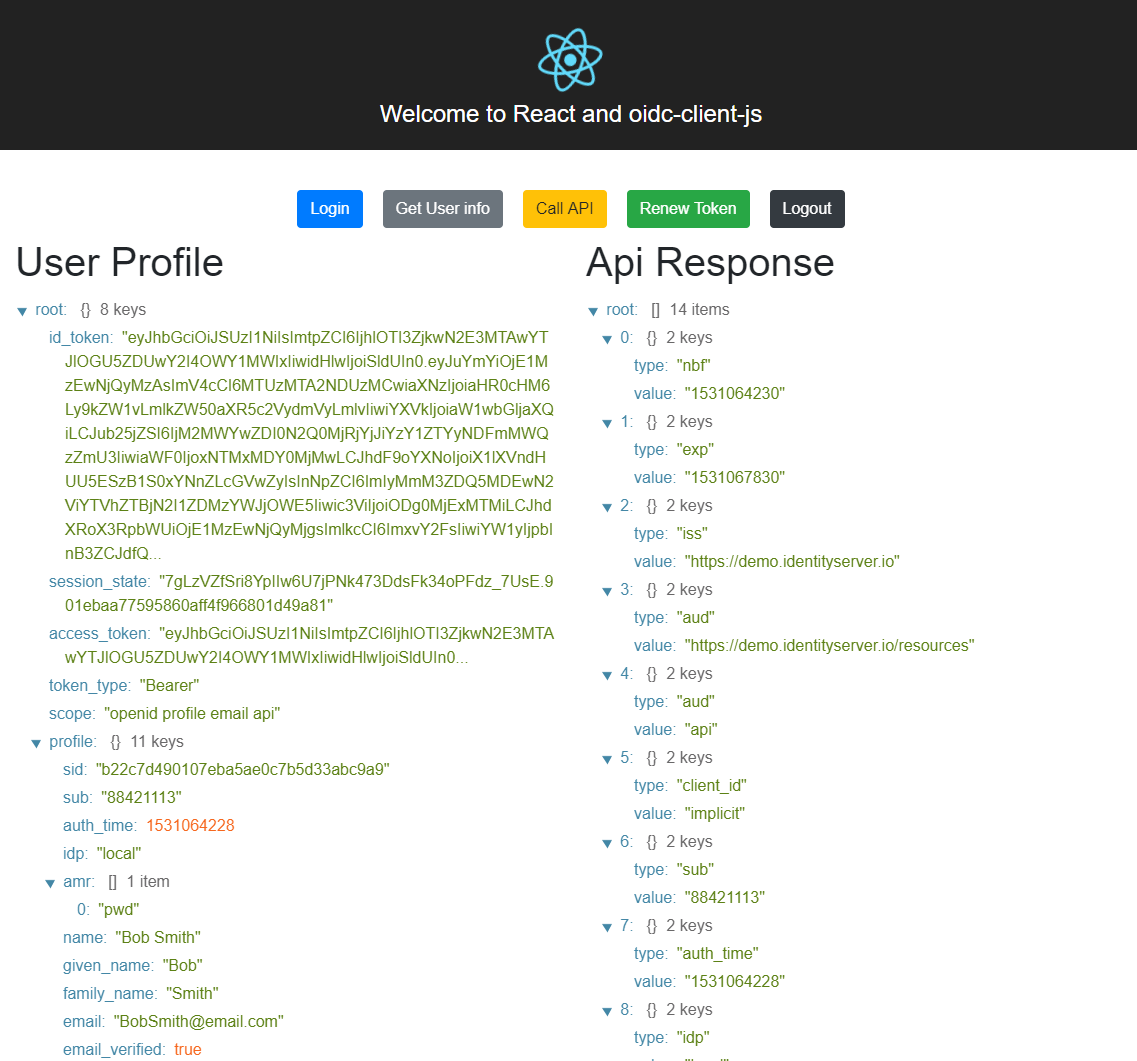
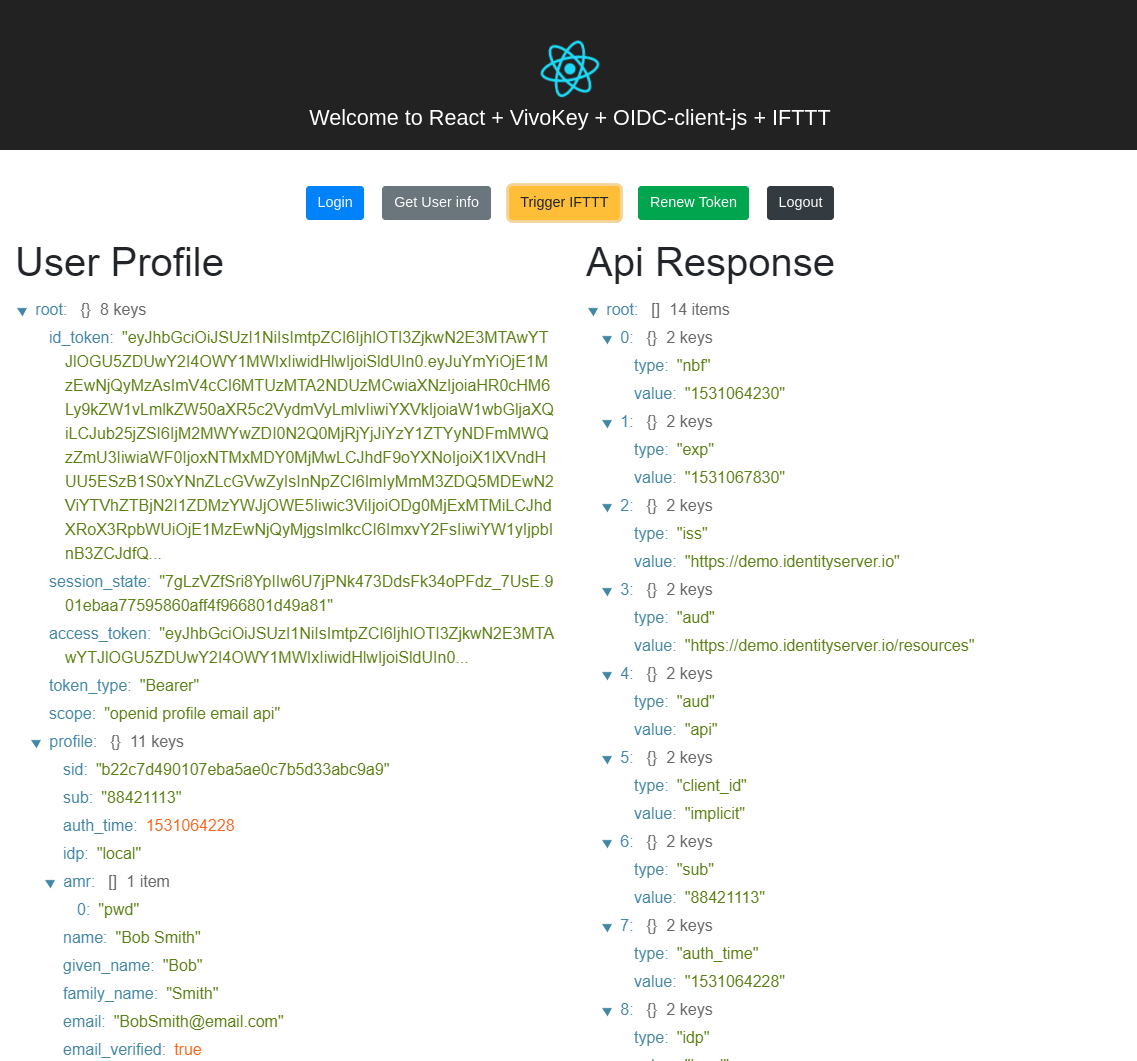
screenshot

Changed region(s): [[0.2463, 0.1555, 0.7696, 0.2177], [0.277, 0.0311, 0.708, 0.1244]]

diff --git a/src/components/Buttons.tsx b/src/components/Buttons.tsx
@@ -19,7 +19,7 @@ const Buttons: React.SFC<IButtonsProps> = props => {
           Get User info
         </button>
         <button className="btn btn-warning btn-getapi" style={{ margin: '10px' }} onClick={props.callApi}>
-          IFTTT
+          Trigger IFTTT
         </button>
         <button className="btn btn-success btn-renewtoken" style={{ margin: '10px' }} onClick={props.renewToken}>
           Renew Token
